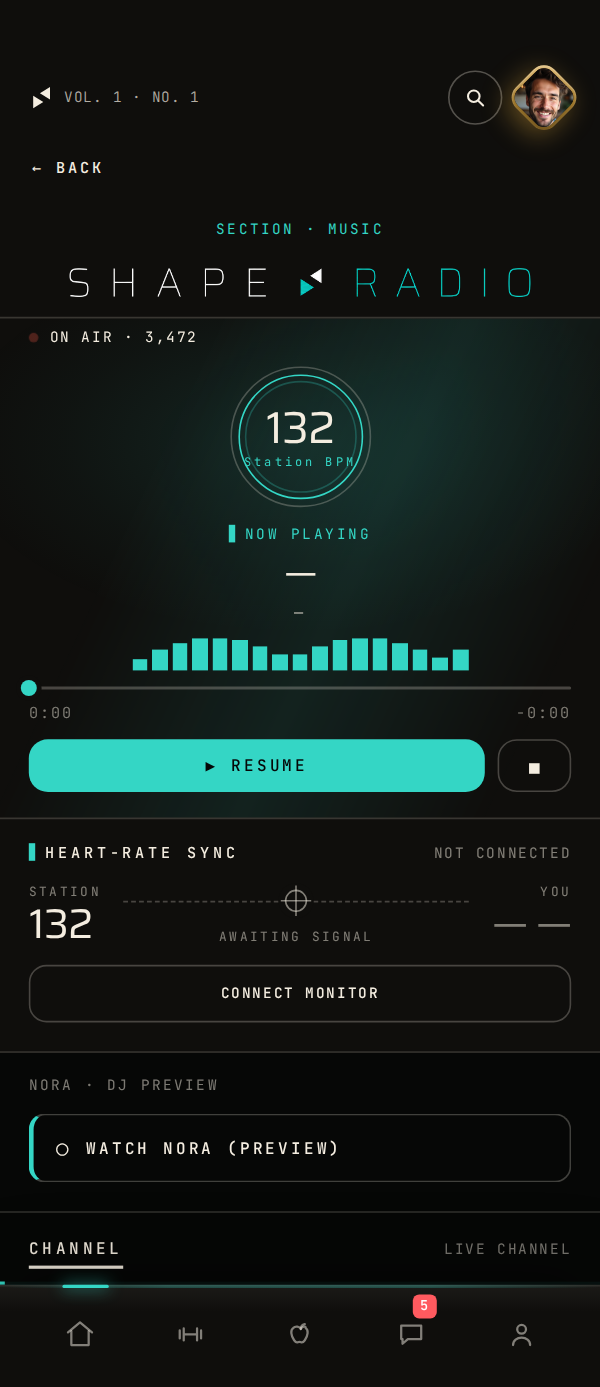
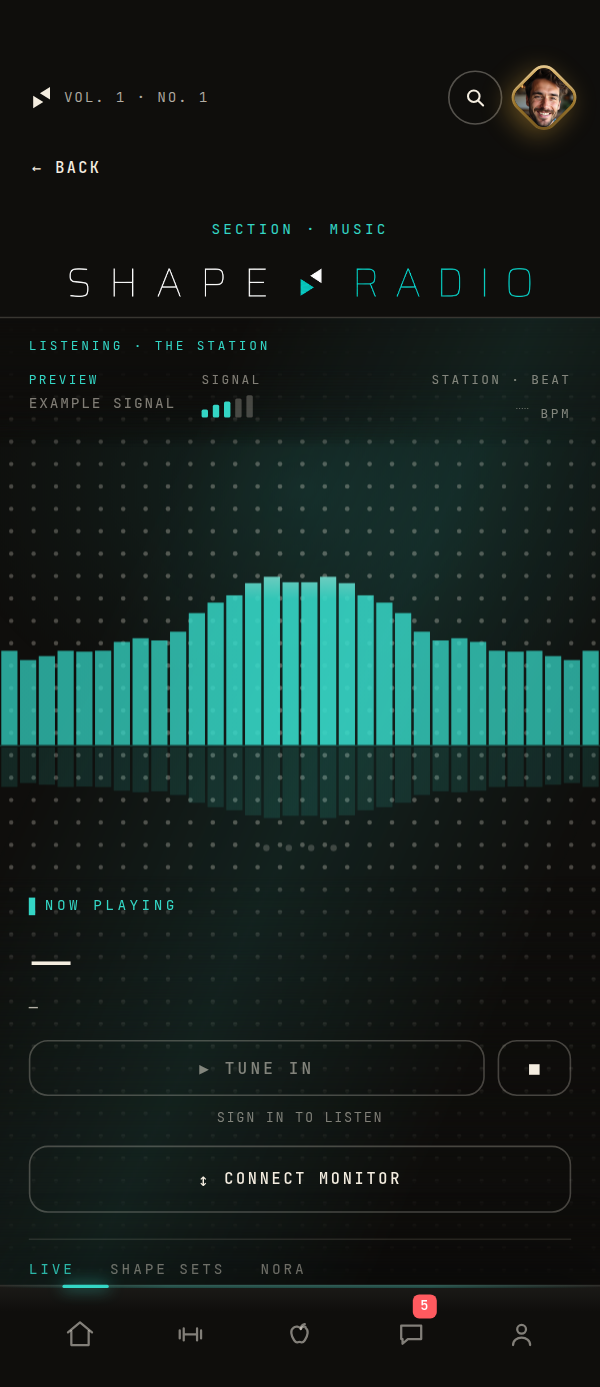
App page: replace the two captures that showed screens the app retired
getapp-home-v5.png still printed a listener count and getapp-radio-v3.png was
the pre-Signal-Field Radio page; both are replaced in place with the 09-17
re-shots (600x1387, the signed-out preview, the clock pinned like the other
eight) and their ?v= bumped on GetApp.html and on the homepage's price phone,
which shares the Home file. Design-independent: the review's §6 called it the
first fix whichever concept won.

Claude-Session: https://claude.ai/code/session_01Li7BFVsf8cWYiwYsyxx9s7

diff --git a/public/newdesign/GetApp.html b/public/newdesign/GetApp.html
@@ -297,14 +297,14 @@
 <script>
 (function () {
   var STEPS = [
-    { kind: "HOME",     title: "Today, at a glance.",         body: "The Shape Daily — calendar, calorie ledger, what's left to log, who's on the air. Skim it in five seconds, dive in if you want.", img: "/newdesign/getapp-home-v5.png?v=20260910", dark: true },
+    { kind: "HOME",     title: "Today, at a glance.",         body: "The Shape Daily — calendar, calorie ledger, what's left to log, who's on the air. Skim it in five seconds, dive in if you want.", img: "/newdesign/getapp-home-v5.png?v=20260917", dark: true },
     { kind: "TRAIN",    title: "Know what's coming.",          body: "Every move, set, and cue from your trainer — before you walk into the gym. Tap a move for video, note warmups, mark a substitute. No coach yet? Build your own week — starter templates and custom programs, coach optional.", img: "/newdesign/getapp-train-v3.png?v=20260910", dark: false },
     { kind: "EAT",      title: "Macros, tallied live.",        body: "Daily meal plans from your nutritionist. The day's deficit (or surplus) ticks as you log. Swaps for travel days built in.", img: "/newdesign/getapp-nutri-v3.png?v=20260910", dark: false },
     { kind: "GROCERY",  title: "List that builds itself.",     body: "Organized by aisle with a live running cost. Coach swaps land inline. One tap to send the whole list to Instacart.", img: "/newdesign/getapp-grocery-v2.png?v=20260910", dark: false },
     { kind: "HABITS",   title: "Small things, tracked.",       body: "Tap to log. Earn Shape Score for every check. Pick friends to be notified when you miss — accountability without the guilt trip.", img: "/newdesign/getapp-habits-v1.png?v=20260910", dark: true },
     { kind: "SCORE",    title: "One number that matters.",     body: "A five-tier ladder rewarding consistency across training, nutrition, and recovery. It only moves when you show up.", img: "/newdesign/getapp-score-v3.png?v=20260910", dark: true },
     { kind: "PROFILE",  title: "A profile that's alive.",      body: "Your climb, your Shape Score, PRs and playlists — a living page that grows as you do. Make it public or keep it private; it's yours.", img: "/newdesign/getapp-profile-v2.png?v=20260911", dark: true },
-    { kind: "RADIO",    title: "Great music, included.",       body: "One live channel and the playlists your coaches put together, ad-free, right inside the app. Your membership covers it — nothing extra to buy.", img: "/newdesign/getapp-radio-v3.png?v=20260910", dark: true },
+    { kind: "RADIO",    title: "Great music, included.",       body: "One live channel and the playlists your coaches put together, ad-free, right inside the app. Your membership covers it — nothing extra to buy.", img: "/newdesign/getapp-radio-v3.png?v=20260917", dark: true },
     { kind: "COMMUNITY", title: "The social side of strong.",   body: "See who's training right now, ask the room a question, and answer someone else's. A live members' feed, channels for your people, and a thread straight to your coach turn solo workouts into a community — the energy of a gym floor, wherever you train.", img: "/newdesign/getapp-community-v2.png?v=20260911", dark: false },
     { kind: "THE WALL", title: "Records, on the wall.",         body: "Every personal best — a lift, a run, a ride — lands on a board your people can see. A record carries the whole session under it: the top set, the heart rate you did it at, your coach's co-sign. It is the same feed your training already fills, read as records rather than posts.", img: "/newdesign/getapp-wall-v1.png?v=20260911b", dark: true }
   ];

diff --git a/public/newdesign/index.html b/public/newdesign/index.html
@@ -883,7 +883,7 @@
              Guarded by tests/homepage-climb.test.mjs. -->
         <div class="appph">
           <span class="isl"></span>
-          <img src="/newdesign/getapp-home-v5.png?v=20260910" width="600" height="1387" loading="lazy" decoding="async" alt="The app's Home screen: the day's calorie ledger against target, this week's calendar, the check-in due, and today's slate" style="--y:0%">
+          <img src="/newdesign/getapp-home-v5.png?v=20260917" width="600" height="1387" loading="lazy" decoding="async" alt="The app's Home screen: the day's calorie ledger against target, this week's calendar, the check-in due, and today's slate" style="--y:0%">
         </div>
         <div class="phcap"><b>Today, at a glance</b>The Shape Daily: your calendar, the calorie ledger, what's left to log, and who's on the air.<span class="lbl-row"><span class="exlabel">Example member</span></span></div>
       </div>
